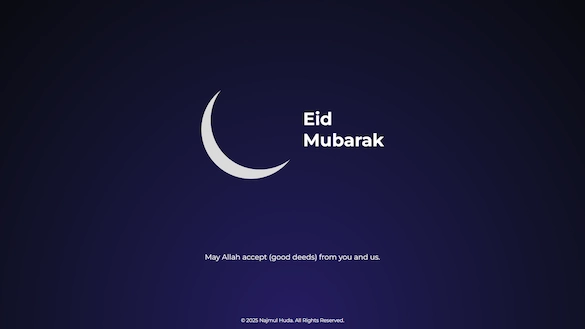
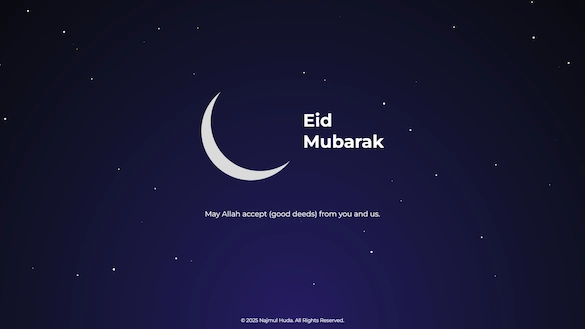
update

diff --git a/page.html b/page.html
@@ -5,11 +5,11 @@
     <meta name="viewport" content="width=device-width, initial-scale=1.0">
     <title>Najmul Huda</title>
     <link rel="icon" type="image/x-icon" href="/img/favicon.svg">
-    <link rel="preload" href="/img/najmul.webp" as="image" type="image/webp">
+    <link rel="preload" href="/img/najmul2.webp" as="image" type="image/webp">
     <script src="js/particles.js"></script>
     <link rel="stylesheet" href="css/index.css">
 </head>
-<body>   
+<body>
 <div class="wrapper">
     <header class="header flex-center">
         <svg width="73" height="20" viewBox="0 0 73 20" fill="none" xmlns="http://www.w3.org/2000/svg">
@@ -124,6 +124,7 @@
                 </a>
             </section>
         </div>
+
         <section class="project-cards">
             <h2>Recent Projects</h2>
 
@@ -178,32 +179,58 @@
             <a href="/projects">More projects</a>
         </section>
 
-        <section class="project-cards">
+        <section>
             <h2>My Services</h2>
 
-            <!-- <a href="https://salah-time.com"  target="_blank">
-                <article class="card glassy">
-                    <div class="card-img-div">
-                        <img src="img/salah_time.webp" alt="" loading="lazy">
-                    </div>
-                    <div class="card-texts">
-                        <h3>Salah-Time.com</h3>
-                        <p>Salah Time is a browser extension which shows the daily Muslim Prayer local time. It is highly configurable allowing User to set/change location automatically or manually. And it also allows the user to fine-tune/offset prayer times and set prayer time calculation method.</p>
-                    </div>
-                </article>
-            </a>
+            <div class="services-cards">
+                <article class="glassy">
+                    <h3>Starter Package</h3>
+                    <p>Build a unique website to stand out from the crowd</p>
 
-            <a href="https://fyabr.com" target="_blank">
-                <article class="card glassy">
-                    <div class="card-img-div">
-                        <img src="img/fyabr.webp" alt="" loading="lazy">
-                    </div>
-                    <div class="card-texts">
-                        <h3>FYABR.com</h3>
-                        <p>A sleek landing page for FYABR Investment firm.</p>
-                    </div>
+                    <p>75 OMR</p>
+                    <ul>
+                        <li>Custom Static Website</li>
+                        <li>Mobile-friendly design</li>
+                        <li>No hosting</li>
+                        <li>No domain </li>
+                    </ul>
+
+                    <p></p>
                 </article>
-            </a> -->
+
+                <article class="glassy">
+                    <h3>Premium Package</h3>
+                    <p>Build a unique website to stand out from the crowd</p>
+
+                    <p>125 OMR</p>
+                    <ul>
+                        <li>Custom Static Website</li>
+                        <li>Mobile-friendly design</li>
+                        <li>Free hosting</li>
+                        <li>Free custom domain for 2 years (30$ value)</li>
+                        <li>SSL Certificate</li>
+                        <li>Basic SEO</li>
+                        <li>Contact Form integration</li>
+                    </ul>
+
+                    <p></p>
+                </article>
+
+                <article class="glassy">
+                    <h3>Elite Package</h3>
+                    <p>Build a unique website to stand out from the crowd</p>
+
+                    <ul>
+                        <li>Custom Web Application</li>
+                        <li>Mobile-friendly design</li>
+                        <li>Free custom domain for 2 years (30$ value)</li>
+                        <li>Interactive Features</li>
+                        <li>Contact Form integration</li>
+                    </ul>
+
+                    <p></p>
+                </article>
+            </div>
 
             <a href="/services">Learn More</a>
         </section>

diff --git a/eid-greeting/index.html b/eid-greeting/index.html
@@ -79,16 +79,15 @@
 
         body {
             font-family: "Montserrat", sans-serif;
-            /* background: radial-gradient(ellipse at bottom,  oklch(0.29 0.1175 282.02) 0%,  oklch(15.09% 0.0109 276.17) 100%);
-
-            background: radial-gradient(ellipse at bottom, oklch(var(--light1) var(--chroma1) var(--hue1)) 0%, oklch(var(--light2) var(--chroma2) var(--hue2)) 100%); */
-
             background: radial-gradient(ellipse at bottom, var(--inner-color) 0%, var(--outer-color) 100%);
-
-            
             color: #fff;
             min-height: 100vh;
+            min-height: 100svh;
             animation: background-gradient 3s linear forwards;
+            display: flex;
+            flex-flow: column nowrap;
+            justify-content: center;
+            align-items: center;
         }
 
         .sun {
@@ -133,6 +132,7 @@
 
         main {
             padding: 1rem;
+            margin-top: -5rem;
         }
 
         footer {
@@ -145,9 +145,8 @@
             display: flex;
             justify-content: center;
             align-items: center;
-            height: 75vh;
             gap: 0.5rem;
-            
+            margin: 0 0 5rem;
         }
 
         .eid-text {
@@ -221,7 +220,7 @@
     <script>
         document.addEventListener("DOMContentLoaded", () => {
             /* particlesJS.load(@dom-id, @path-json, @callback (optional)); */
-            particlesJS.load('particles-js', '/js/particles.json');
+            particlesJS.load('particles-js', '/js-non_minified/particles.json');
         });
     </script>
 

diff --git a/css/index.css b/css/index.css
@@ -232,6 +232,11 @@ header, main, footer {
     width: 50px;
     height: 50px;
     place-items: center;
+    transition: opacity 0.35s;
+}
+
+.theme-btn:hover {
+    opacity: 0.65;
 }
 
 .theme-btn img {
@@ -475,6 +480,7 @@ a:hover:has(> .card) {
     margin: 1.25rem 0;
 }
 
+
 .project-cards > a:not(a:has(> .card))::after {
     content: "→";
     margin-left: 1ch;
@@ -528,6 +534,10 @@ a:hover:has(> .card) {
     font-size: 0.9rem;
     color: oklch(from var(--font-color2) calc(l - 0.05) c h);
     /* text-wrap: pretty; */
+}
+
+.services-cards {
+    display: flex;
 }
 
 @container card (width < 576px) {
